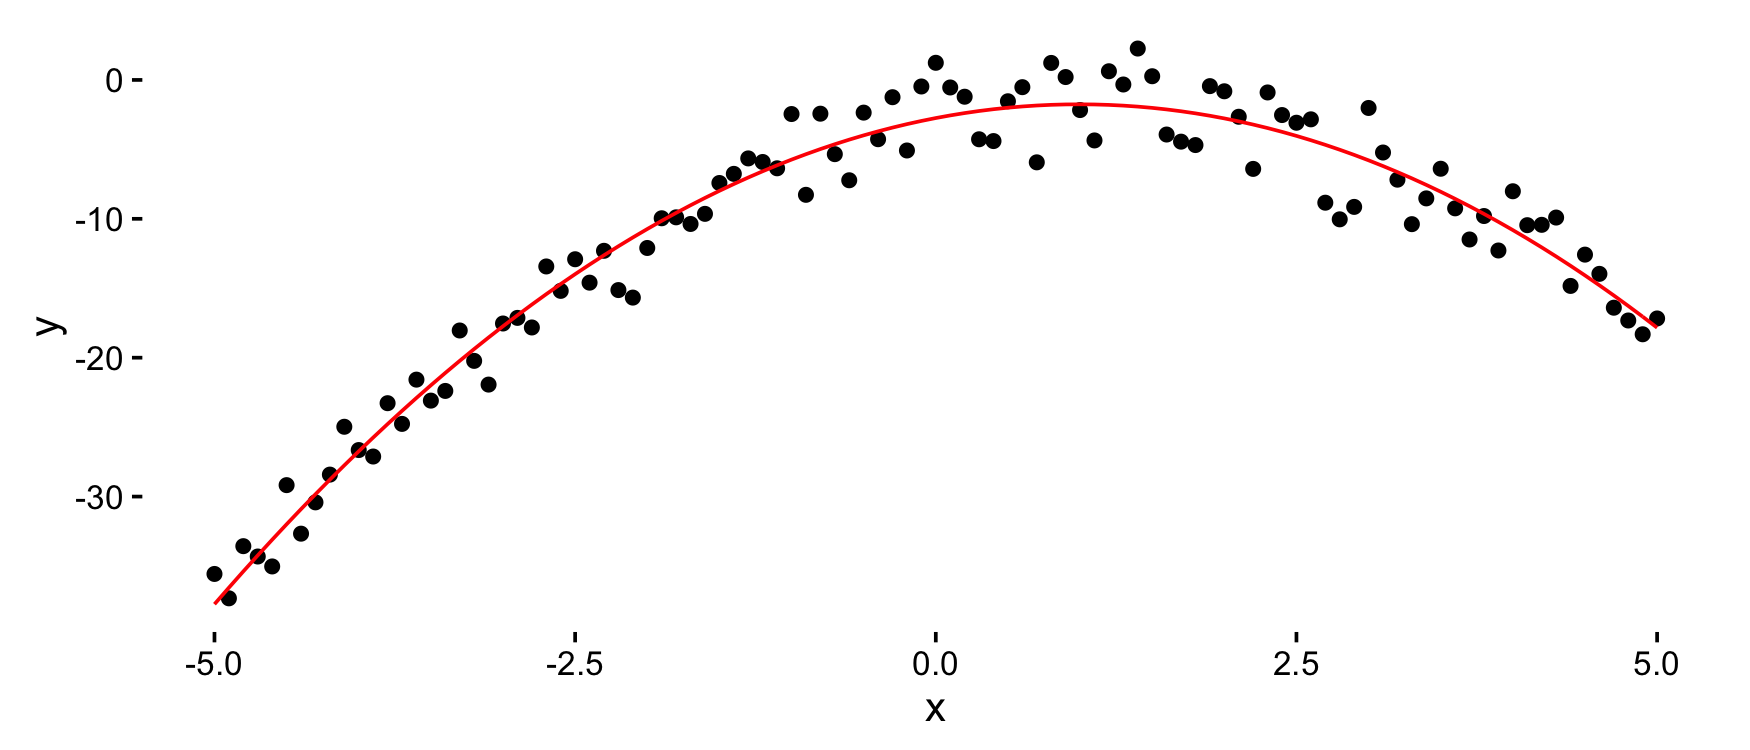
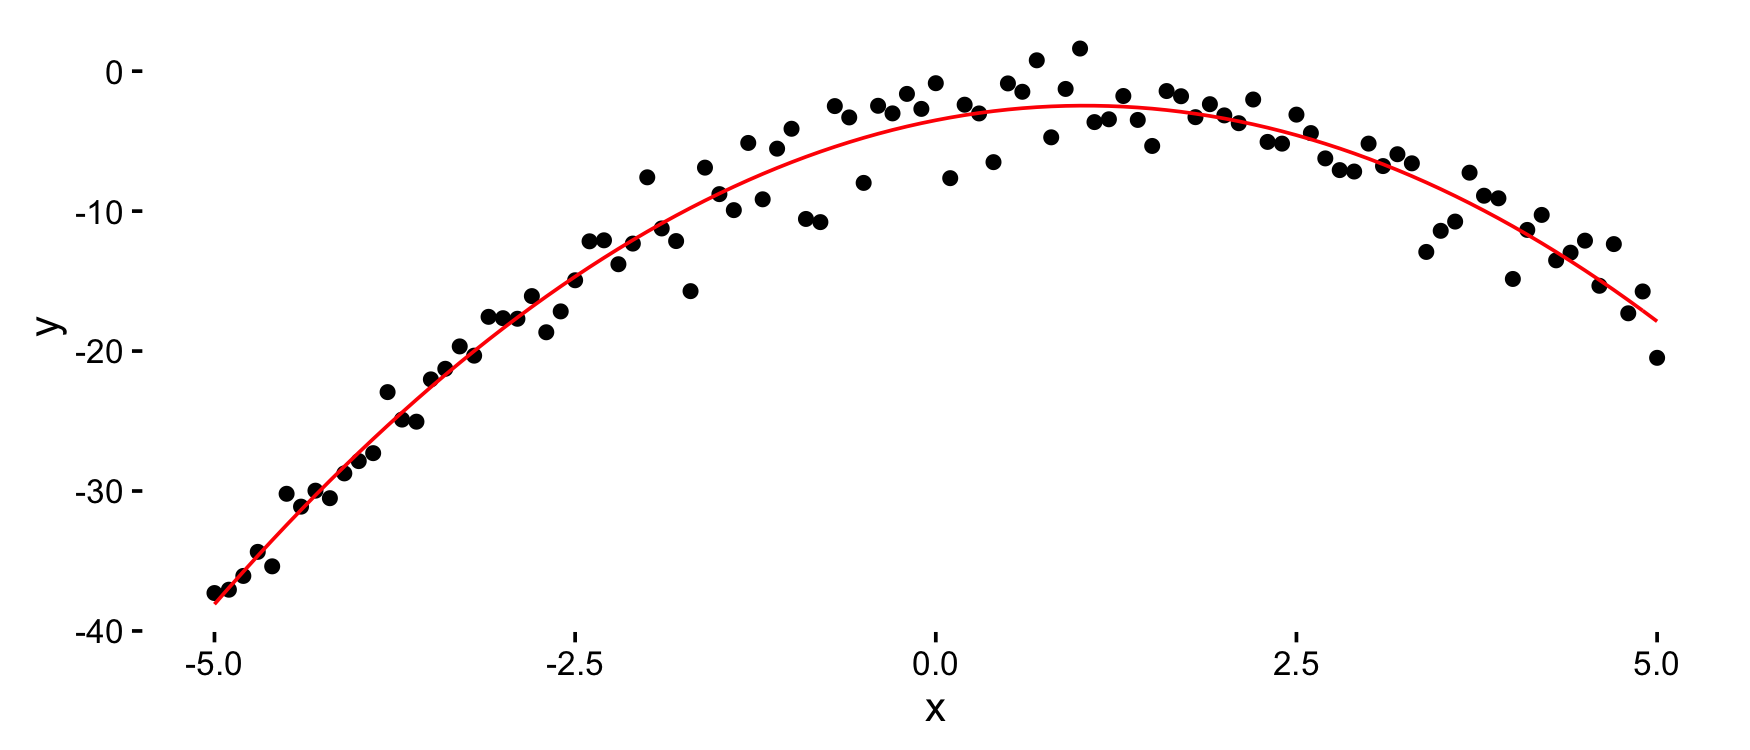
update readme to include poly() in lm()

diff --git a/README.md b/README.md
@@ -528,13 +528,40 @@ df$y <- with(df, -x^2 + 2*x - 3 + rnorm(n, 0, 2))
 
 mod <- lm(y ~ x + I(x^2), data = df)
 (p <- mod %>% as.mpoly %>% round)
-# 1.991 x  -  1.002 x^2  -  2.744
+# 2.021 x  -  0.979 x^2  -  3.507
 qplot(x, y, data = df) +
   stat_function(fun = as.function(p), colour = 'red')
 # f(.) with . = x
 ```
 
 ![](figures/README-lm-1.png)
+
+``` r
+s <- seq(-5, 5, length.out = n)
+df <- expand.grid(x = s, y = s) %>% 
+  mutate(z = x^2 - y^2 + 3*x*y + rnorm(n^2, 0, 3))
+
+(mod <- lm(z ~ poly(x, y, degree = 2, raw = TRUE), data = df))
+# 
+# Call:
+# lm(formula = z ~ poly(x, y, degree = 2, raw = TRUE), data = df)
+# 
+# Coefficients:
+#                           (Intercept)  
+#                             -0.066621  
+# poly(x, y, degree = 2, raw = TRUE)1.0  
+#                              0.002571  
+# poly(x, y, degree = 2, raw = TRUE)2.0  
+#                              0.998949  
+# poly(x, y, degree = 2, raw = TRUE)0.1  
+#                              0.002239  
+# poly(x, y, degree = 2, raw = TRUE)1.1  
+#                              3.001249  
+# poly(x, y, degree = 2, raw = TRUE)0.2  
+#                             -0.987866
+as.mpoly(mod)
+# 0.002571436 x  +  0.9989494 x^2  +  0.002238815 y  +  3.001249 x y  -  0.9878661 y^2  -  0.06662147
+```
 
 Installation
 ------------
